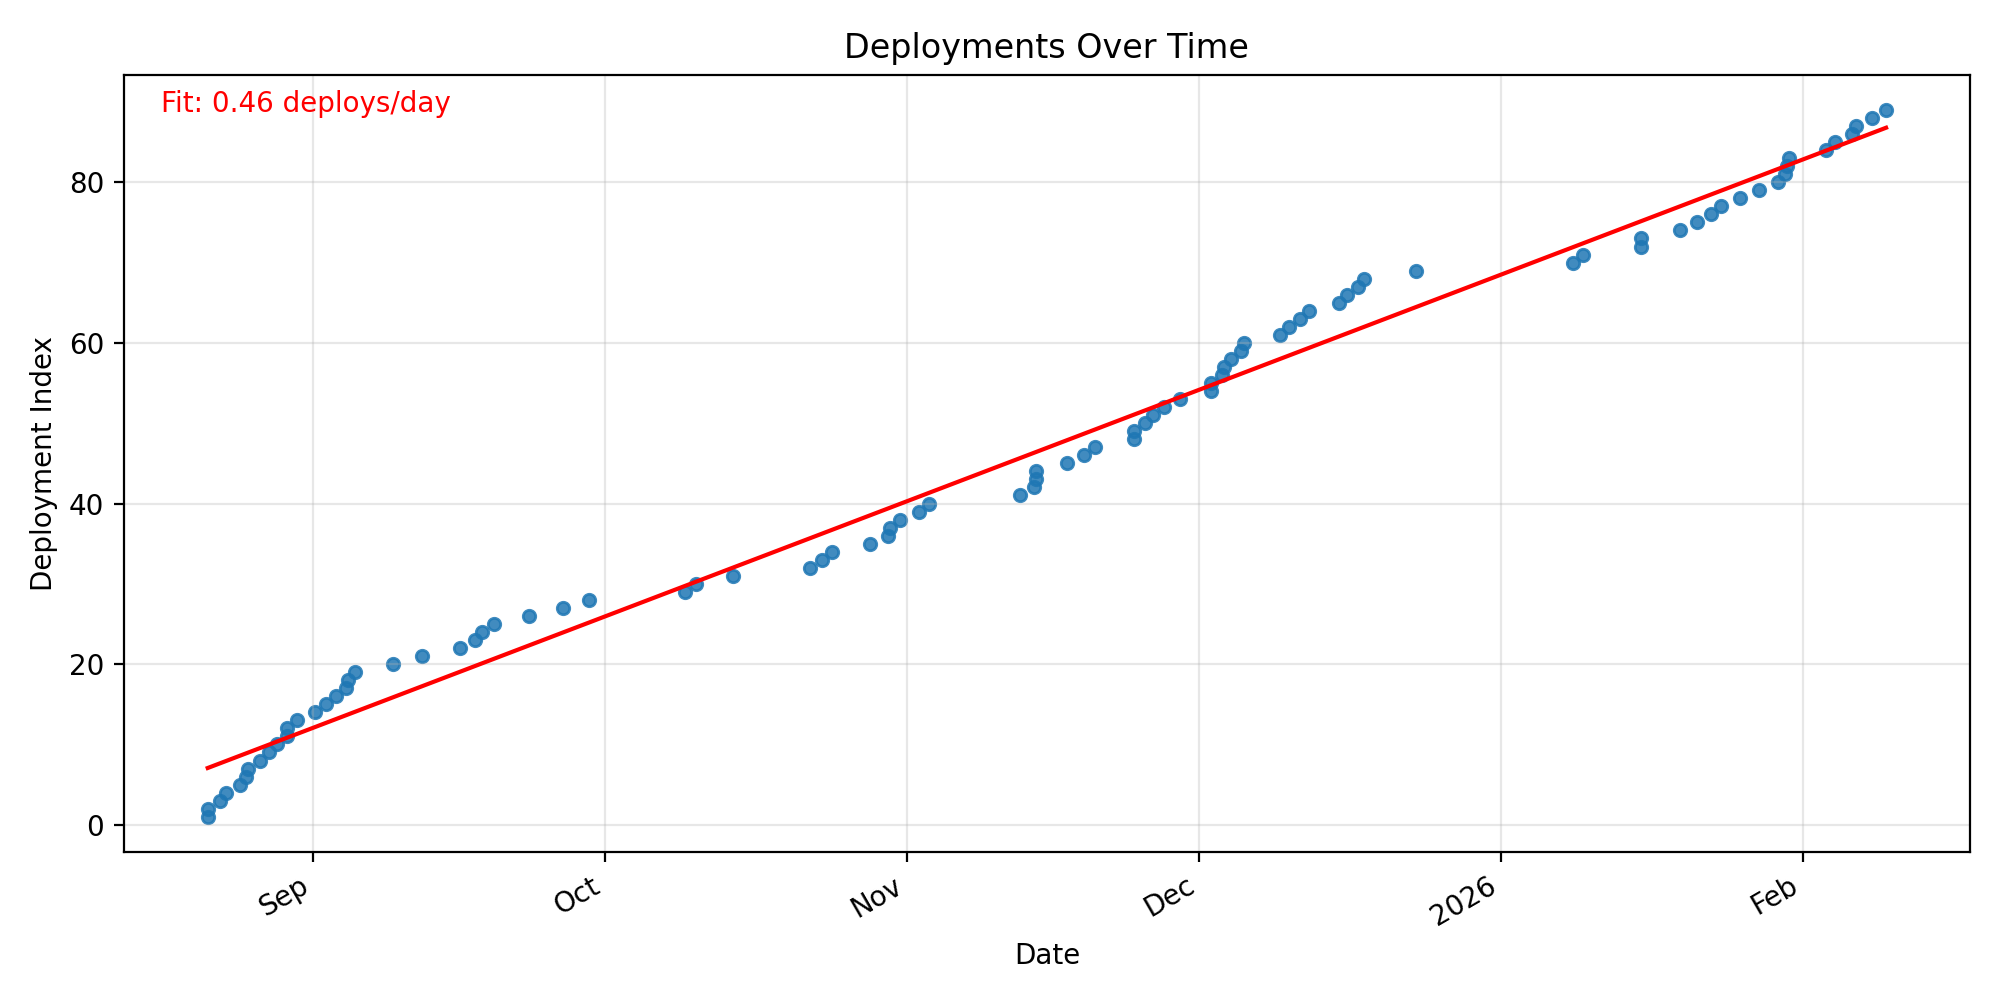
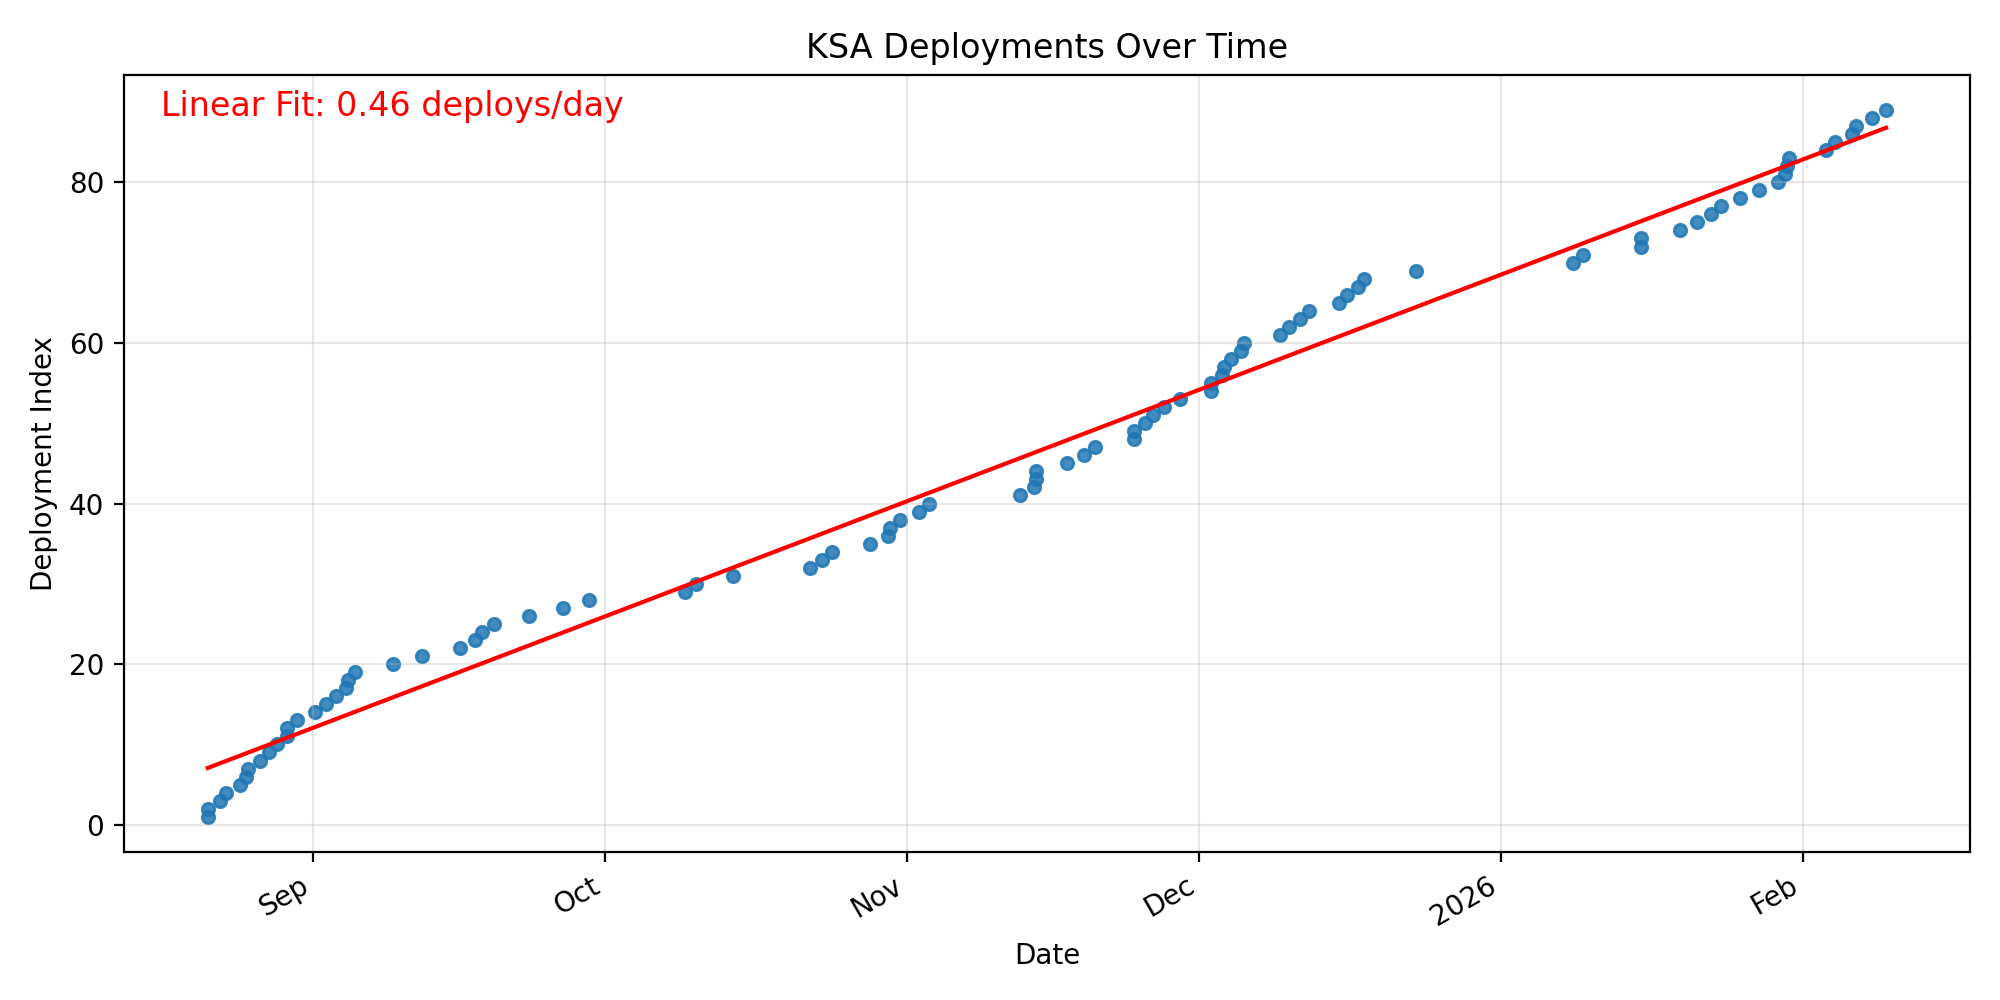
Added plot to readme

Changed region(s): [[0.403, 0.031, 0.651, 0.062], [0.062, 0.093, 0.31, 0.124]]

diff --git a/plot_deploys.py b/plot_deploys.py
@@ -64,11 +64,12 @@ def main() -> None:
     ax.text(
         0.02,
         0.98,
-        f"Fit: {slope:.2f} deploys/day",
+        f"Linear Fit: {slope:.2f} deploys/day",
         transform=ax.transAxes,
         ha="left",
         va="top",
         color="red",
+        fontsize=12,
     )
     ax.set_title("KSA Deployments Over Time")
     ax.set_xlabel("Date")

diff --git a/README.md b/README.md
@@ -3,3 +3,6 @@
 Archive of the change log of KSA as it is posted on discord.
 
 A plot of the deploy history can be generated with `python plot_deploys.py`.
+
+![KSA Deployments Over Time](deploy_times.png)
+
